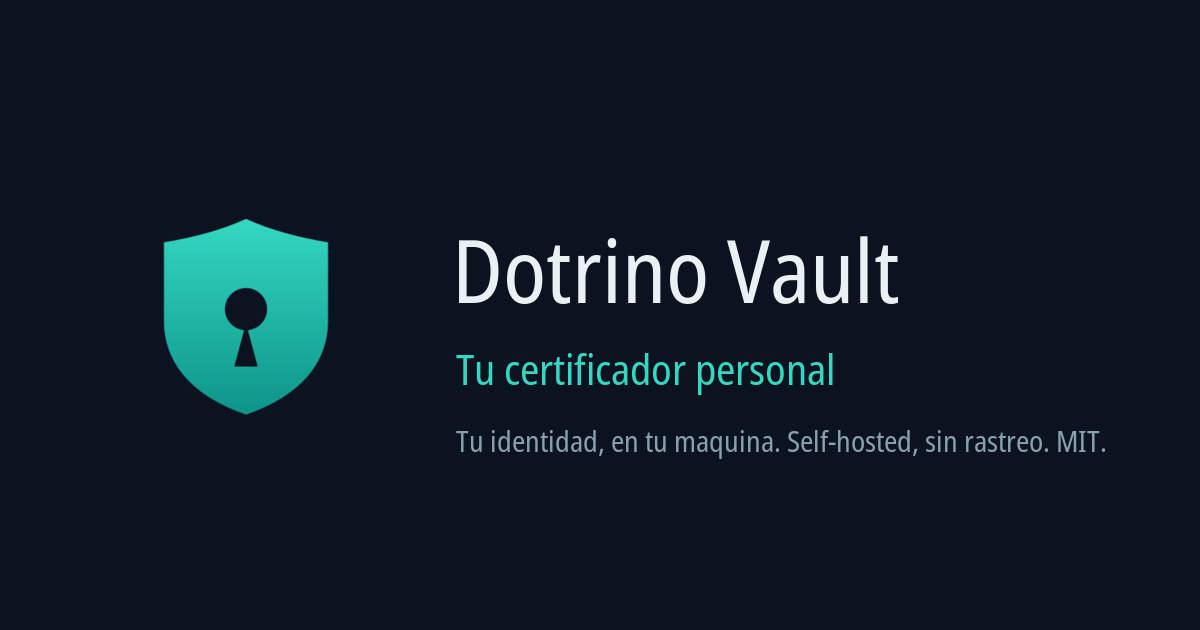
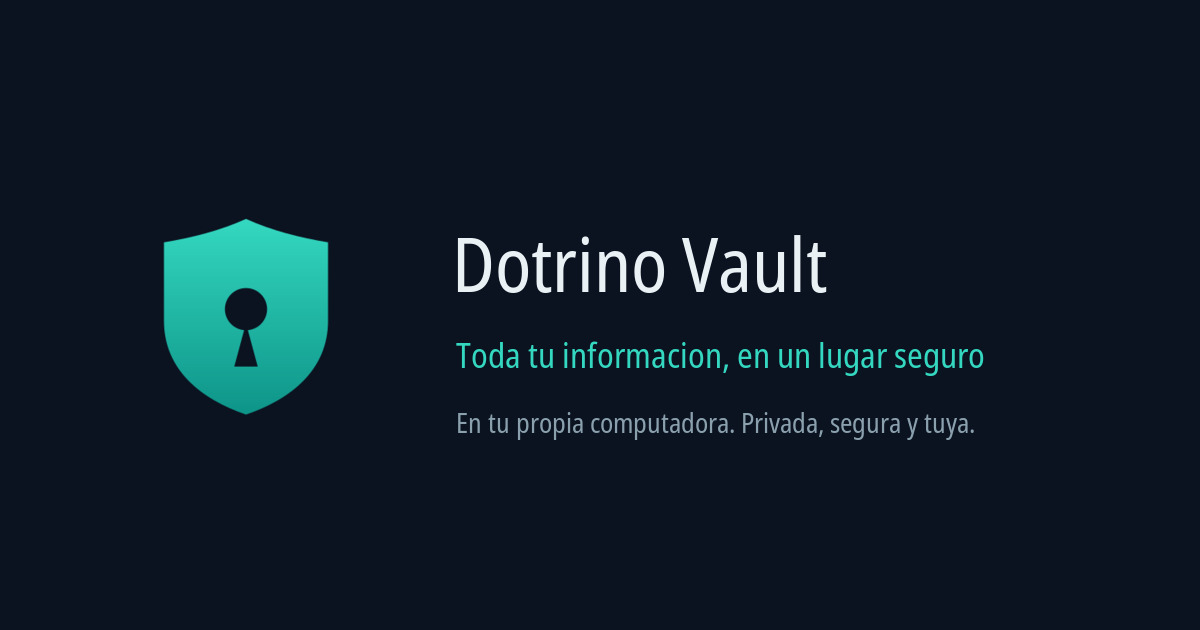
web: copy en lenguaje llano — 'toda tu informacion en un lugar seguro', sin jerga

Changed region(s): [[0.37, 0.3619, 0.7708, 0.4825], [0.37, 0.5429, 0.8325, 0.6333], [0.37, 0.6635, 0.925, 0.7238]]

diff --git a/web/src/App.vue b/web/src/App.vue
@@ -5,76 +5,76 @@ const GITHUB = 'https://github.com/imdotrino/dotrino-vault'
 const RELEASES = GITHUB + '/releases/latest'
 const DISCORD = 'https://discord.gg/D648uq7cth'
 
-/* ---------------- i18n (es/en · tuteo, sin voseo) ---------------- */
+/* ---------------- i18n (es/en · tuteo, sin voseo · lenguaje llano) ---------------- */
 const I18N = {
   es: {
     nav_how: 'Cómo funciona', nav_download: 'Descargar',
-    hero_kicker: 'Certificador personal · self-hosted',
-    hero_title: 'Sé tu propia autoridad',
-    hero_sub: 'Tu identidad y tus llaves viven en tu máquina —no en Google, Apple ni una autoridad central. Dotrino Vault custodia tu llave maestra y te deja certificar tus dispositivos y documentos tú mismo. Tú firmas, tú decides.',
-    hero_download: 'Descargar para Linux', hero_source: 'Ver el código',
-    hero_note: 'v1 para Linux (x64). macOS y Windows, pronto.',
-    why_title: '¿Por qué?',
-    why_body: 'Hoy unas pocas plataformas deciden quién eres en internet: el «Inicia sesión con Google/Apple», las autoridades de certificación, los verificadores de identidad, el tilde azul. Dotrino Vault te devuelve ese poder. Es un servicio que corre en tu propia máquina, custodia tu llave maestra y te convierte en tu propia autoridad: certificas por ti mismo, sin pedirle permiso a nadie.',
+    hero_kicker: 'Tu bóveda personal · en tu propia máquina',
+    hero_title: 'Toda tu información, en un solo lugar seguro',
+    hero_sub: 'Tus archivos, tus contactos, tus contraseñas y lo que guardan tus apps, todo junto en una bóveda que vive en tu propia computadora. No en la nube de una empresa: en tu máquina, bajo tu control. Sin anuncios, sin rastreo, sin que nadie venda tus datos.',
+    hero_download: 'Descargar gratis', hero_source: 'Ver el código',
+    hero_note: 'Por ahora para Linux. macOS y Windows, pronto.',
+    why_title: '¿Para qué sirve?',
+    why_body: 'Hoy tu información está repartida y, casi siempre, en servidores de grandes empresas que la guardan, la miran y la usan para ganar dinero: unas cosas en Google, otras en tu teléfono, otras en cada app. Dotrino Vault las junta en un solo lugar que es tuyo de verdad —tu computadora— y tus demás dispositivos acceden a ella de forma segura, estés donde estés. Tu información deja de estar prestada y vuelve a ser tuya.',
     how_title: 'Cómo funciona',
-    how_1_t: 'Instalas y corre solo',
-    how_1_b: 'Un servicio headless que arranca con tu equipo. En el primer arranque genera tu identidad. Tu llave maestra nunca sale de tu máquina.',
-    how_2_t: 'Enrolas tus dispositivos',
-    how_2_b: 'Tu teléfono o tu laptop escanean un QR y reciben un certificado firmado por tu llave —sin copiar la llave. Cada dispositivo tiene la suya.',
-    how_3_t: 'Firmas y revocas',
-    how_3_b: 'Tus dispositivos te piden firmar o leer; el vault responde por un canal cifrado. ¿Perdiste un equipo? Lo revocas y listo. La maestra sigue intacta.',
+    how_1_t: 'Lo instalas',
+    how_1_b: 'Descargas un programa que se queda funcionando en tu computadora y se encarga de guardar tus cosas. Queda listo en un minuto, sin configurar nada.',
+    how_2_t: 'Conectas tus dispositivos',
+    how_2_b: 'Escaneas un código con tu teléfono o tu laptop y quedan conectados a tu bóveda. Cada uno con su propio permiso, que puedes quitar cuando quieras.',
+    how_3_t: 'Todo seguro, en un lugar',
+    how_3_b: 'Tu información vive en tu máquina y solo la ven los dispositivos que tú conectaste. ¿Perdiste el teléfono? Lo desconectas con un clic y tus datos siguen a salvo.',
     feat_title: 'Lo que te da',
     feats: [
-      ['Tu llave nunca sale', 'La maestra se queda en tu máquina. Los dispositivos actúan con un certificado acotado, revocable y con vencimiento.'],
-      ['Sin porteros', 'Sin CAs, sin login de terceros, sin KYC. Tú eres la autoridad de tu propia identidad.'],
-      ['Multi-dispositivo', 'La misma identidad en tu PC, tu laptop y tu teléfono, hablando entre ellos de forma segura.'],
-      ['Web-of-trust', 'Tus certificados los puede verificar cualquiera del ecosistema, sin preguntarte a ti.'],
-      ['Headless', 'Corre como servicio del sistema, sin navegador. La interfaz es opcional.'],
-      ['Open source', 'Código abierto (MIT) y autohospedado. Sin anuncios, sin cookies, sin rastreo.'],
+      ['Todo junto', 'Archivos, contactos, notas y lo que guardan tus apps: una sola bóveda, en vez de tus cosas regadas por mil sitios.'],
+      ['Es tuya', 'Vive en tu propia computadora, no en los servidores de una empresa. Tú eres el único dueño.'],
+      ['Privada de verdad', 'Sin anuncios, sin cookies, sin rastreo. Nadie mira ni vende tu información.'],
+      ['En todos tus dispositivos', 'Tu teléfono, tu laptop y tu PC, conectados a la misma bóveda de forma segura.'],
+      ['Tú decides quién entra', 'Conectas y desconectas dispositivos cuando quieras. El control es solo tuyo.'],
+      ['Gratis y abierta', 'No cuesta nada y no pide cuenta. Su código es abierto, para que cualquiera lo revise.'],
     ],
     dl_title: 'Descarga',
-    dl_lead: 'Un solo archivo, con todo dentro: no necesitas instalar Node ni dependencias. Se instala como servicio y arranca solo.',
-    dl_btn: 'Descargar para Linux (x64)',
+    dl_lead: 'Un solo archivo con todo dentro. Lo descargas, lo instalas y tu bóveda queda funcionando sola.',
+    dl_btn: 'Descargar gratis para Linux',
     dl_install_t: 'Instalar',
-    dl_pair_t: 'Emparejar un dispositivo',
-    dl_warn: 'El binario no está firmado (es self-hosted y de código abierto): tu sistema puede mostrar una advertencia. En Linux basta con darle permiso de ejecución; el instalador lo hace.',
-    dl_other: 'macOS y Windows están en camino (v2). Mientras tanto, puedes compilarlo tú desde el código.',
-    foot_tag: 'Tu información, en tu servidor, bajo tus reglas.',
+    dl_pair_t: 'Conectar un dispositivo',
+    dl_warn: 'Como es un programa gratuito y de código abierto (no le pagamos a nadie por "firmarlo"), tu sistema puede mostrarte un aviso al instalarlo. Es normal y seguro.',
+    dl_other: 'Las versiones para macOS y Windows están en camino. Por ahora, Linux.',
+    foot_tag: 'Tu información, en tu lugar, bajo tus reglas.',
     foot_eco: 'Parte del ecosistema Dotrino', foot_src: 'Código', foot_discord: 'Discord',
   },
   en: {
     nav_how: 'How it works', nav_download: 'Download',
-    hero_kicker: 'Personal certifier · self-hosted',
-    hero_title: 'Be your own authority',
-    hero_sub: 'Your identity and your keys live on your machine — not on Google, Apple or a central authority. Dotrino Vault guards your master key and lets you certify your own devices and documents. You sign, you decide.',
-    hero_download: 'Download for Linux', hero_source: 'View the code',
-    hero_note: 'v1 for Linux (x64). macOS and Windows, soon.',
-    why_title: 'Why?',
-    why_body: 'Today a handful of platforms decide who you are online: "Sign in with Google/Apple", certificate authorities, identity verifiers, the blue check. Dotrino Vault gives that power back to you. It is a service that runs on your own machine, guards your master key and makes you your own authority: you certify yourself, asking no one for permission.',
+    hero_kicker: 'Your personal vault · on your own machine',
+    hero_title: 'All your information, in one safe place',
+    hero_sub: 'Your files, your contacts, your passwords and whatever your apps save, all together in a vault that lives on your own computer. Not on a company’s cloud: on your machine, under your control. No ads, no tracking, nobody selling your data.',
+    hero_download: 'Download free', hero_source: 'View the code',
+    hero_note: 'For Linux for now. macOS and Windows, soon.',
+    why_title: 'What is it for?',
+    why_body: 'Today your information is scattered and, almost always, sitting on big companies’ servers that keep it, look at it and use it to make money: some things on Google, others on your phone, others in each app. Dotrino Vault brings it all into one place that is truly yours —your computer— and your other devices reach it securely, wherever you are. Your information stops being borrowed and becomes yours again.',
     how_title: 'How it works',
-    how_1_t: 'Install it and it just runs',
-    how_1_b: 'A headless service that starts with your machine. On first run it generates your identity. Your master key never leaves your machine.',
-    how_2_t: 'Enroll your devices',
-    how_2_b: 'Your phone or laptop scans a QR and gets a certificate signed by your key — without copying the key. Each device holds its own.',
-    how_3_t: 'Sign and revoke',
-    how_3_b: 'Your devices ask to sign or read; the vault answers over an encrypted channel. Lost a device? Revoke it and done. The master key stays intact.',
+    how_1_t: 'You install it',
+    how_1_b: 'You download a program that keeps running on your computer and takes care of storing your stuff. Ready in a minute, nothing to configure.',
+    how_2_t: 'You connect your devices',
+    how_2_b: 'You scan a code with your phone or laptop and they get connected to your vault. Each one with its own permission, which you can remove whenever you want.',
+    how_3_t: 'Everything safe, in one place',
+    how_3_b: 'Your information lives on your machine and only the devices you connected can see it. Lost your phone? Disconnect it with one click and your data stays safe.',
     feat_title: 'What you get',
     feats: [
-      ['Your key never leaves', 'The master key stays on your machine. Devices act with a scoped, revocable, expiring certificate.'],
-      ['No gatekeepers', 'No CAs, no third-party login, no KYC. You are the authority of your own identity.'],
-      ['Multi-device', 'The same identity on your PC, laptop and phone, talking to each other securely.'],
-      ['Web of trust', 'Anyone in the ecosystem can verify your certificates without asking you.'],
-      ['Headless', 'Runs as a system service, no browser needed. The UI is optional.'],
-      ['Open source', 'Open source (MIT) and self-hosted. No ads, no cookies, no tracking.'],
+      ['Everything together', 'Files, contacts, notes and whatever your apps save: one single vault, instead of your stuff spread across a thousand places.'],
+      ['It’s yours', 'It lives on your own computer, not on a company’s servers. You are the only owner.'],
+      ['Truly private', 'No ads, no cookies, no tracking. Nobody looks at or sells your information.'],
+      ['On all your devices', 'Your phone, laptop and PC, connected to the same vault securely.'],
+      ['You decide who gets in', 'Connect and disconnect devices whenever you want. The control is only yours.'],
+      ['Free and open', 'It costs nothing and asks for no account. Its code is open for anyone to review.'],
     ],
     dl_title: 'Download',
-    dl_lead: 'A single file with everything inside: no Node, no dependencies to install. It installs as a service and starts on its own.',
-    dl_btn: 'Download for Linux (x64)',
+    dl_lead: 'A single file with everything inside. Download it, install it and your vault runs on its own.',
+    dl_btn: 'Download free for Linux',
     dl_install_t: 'Install',
-    dl_pair_t: 'Pair a device',
-    dl_warn: 'The binary is unsigned (it is self-hosted and open source): your system may show a warning. On Linux it only needs execute permission; the installer handles it.',
-    dl_other: 'macOS and Windows are on the way (v2). In the meantime you can build it yourself from source.',
-    foot_tag: 'Your data, on your server, under your rules.',
+    dl_pair_t: 'Connect a device',
+    dl_warn: 'Since it’s a free, open-source program (we don’t pay anyone to "sign" it), your system may show a warning when installing. That’s normal and safe.',
+    dl_other: 'macOS and Windows versions are on the way. For now, Linux.',
+    foot_tag: 'Your data, in your place, under your rules.',
     foot_eco: 'Part of the Dotrino ecosystem', foot_src: 'Source', foot_discord: 'Discord',
   },
 }

diff --git a/web/index.html b/web/index.html
@@ -6,8 +6,8 @@
     <meta name="color-scheme" content="dark" />
     <meta name="theme-color" content="#0b1220" />
 
-    <title>Dotrino Vault — tu certificador personal</title>
-    <meta name="description" content="Sé tu propia autoridad. Dotrino Vault es un servicio self-hosted que custodia tu llave maestra en tu máquina y te deja certificar tus dispositivos y documentos sin depender de Google, Apple ni una CA. Sin anuncios, sin rastreo. Código abierto." />
+    <title>Dotrino Vault — toda tu información en un solo lugar seguro</title>
+    <meta name="description" content="Guarda toda tu información —archivos, contactos, contraseñas y lo que usan tus apps— en una bóveda dentro de tu propia computadora, no en la nube de una empresa. Privada, segura y tuya. Sin anuncios, sin rastreo. Gratis y de código abierto." />
     <link rel="canonical" href="https://vault.dotrino.com/" />
 
     <link rel="icon" href="/icon.svg" type="image/svg+xml" />
@@ -20,15 +20,15 @@
     <meta property="og:locale" content="es_ES" />
     <meta property="og:locale:alternate" content="en_US" />
     <meta property="og:site_name" content="Dotrino" />
-    <meta property="og:title" content="Dotrino Vault — tu certificador personal" />
-    <meta property="og:description" content="Sé tu propia autoridad: tu identidad y tus llaves viven en tu máquina, no en una gran plataforma. Certifica tus dispositivos y documentos tú mismo. Self-hosted, sin rastreo, MIT." />
+    <meta property="og:title" content="Dotrino Vault — toda tu información en un solo lugar" />
+    <meta property="og:description" content="Tus archivos, contactos y contraseñas en una bóveda que vive en tu propia computadora, no en la nube de una empresa. Privada, segura y tuya. Sin rastreo." />
     <meta property="og:url" content="https://vault.dotrino.com/" />
     <meta property="og:image" content="https://vault.dotrino.com/og.jpg" />
     <meta property="og:image:width" content="1200" />
     <meta property="og:image:height" content="630" />
     <meta name="twitter:card" content="summary_large_image" />
-    <meta name="twitter:title" content="Dotrino Vault — tu certificador personal" />
-    <meta name="twitter:description" content="Sé tu propia autoridad. Tu identidad y tus llaves en tu máquina, no en una gran plataforma. Self-hosted, sin rastreo." />
+    <meta name="twitter:title" content="Dotrino Vault — toda tu información en un solo lugar" />
+    <meta name="twitter:description" content="Tus archivos, contactos y contraseñas en una bóveda que vive en tu propia computadora, no en la nube de una empresa. Privada y tuya." />
     <meta name="twitter:image" content="https://vault.dotrino.com/og.jpg" />
 
     <script type="application/ld+json">
@@ -37,7 +37,7 @@
         "@type": "SoftwareApplication",
         "name": "Dotrino Vault",
         "url": "https://vault.dotrino.com/",
-        "description": "Certificador personal self-hosted: custodia tu llave maestra y te deja certificar tus dispositivos y documentos sin una autoridad central.",
+        "description": "Guarda toda tu información en una bóveda dentro de tu propia computadora, no en la nube de una empresa. Privada, segura y tuya.",
         "applicationCategory": "SecurityApplication",
         "operatingSystem": "Linux",
         "downloadUrl": "https://github.com/imdotrino/dotrino-vault/releases/latest",

diff --git a/web/vite.config.js b/web/vite.config.js
@@ -19,9 +19,9 @@ export default defineConfig({
       registerType: 'autoUpdate',
       includeAssets: ['icon.svg', 'icon-192.png', 'icon-512.png', 'icon-maskable-512.png', 'og.jpg', 'robots.txt', 'sitemap.xml'],
       manifest: {
-        name: 'Dotrino Vault — tu certificador personal',
+        name: 'Dotrino Vault — toda tu información en un solo lugar',
         short_name: 'Dotrino Vault',
-        description: 'Sé tu propia autoridad: custodia tu llave maestra y certifica tus dispositivos sin una autoridad central. Self-hosted, sin rastreo.',
+        description: 'Guarda toda tu información en una bóveda dentro de tu propia computadora, no en la nube de una empresa. Privada, segura y tuya.',
         lang: 'es',
         start_url: '/',
         scope: '/',